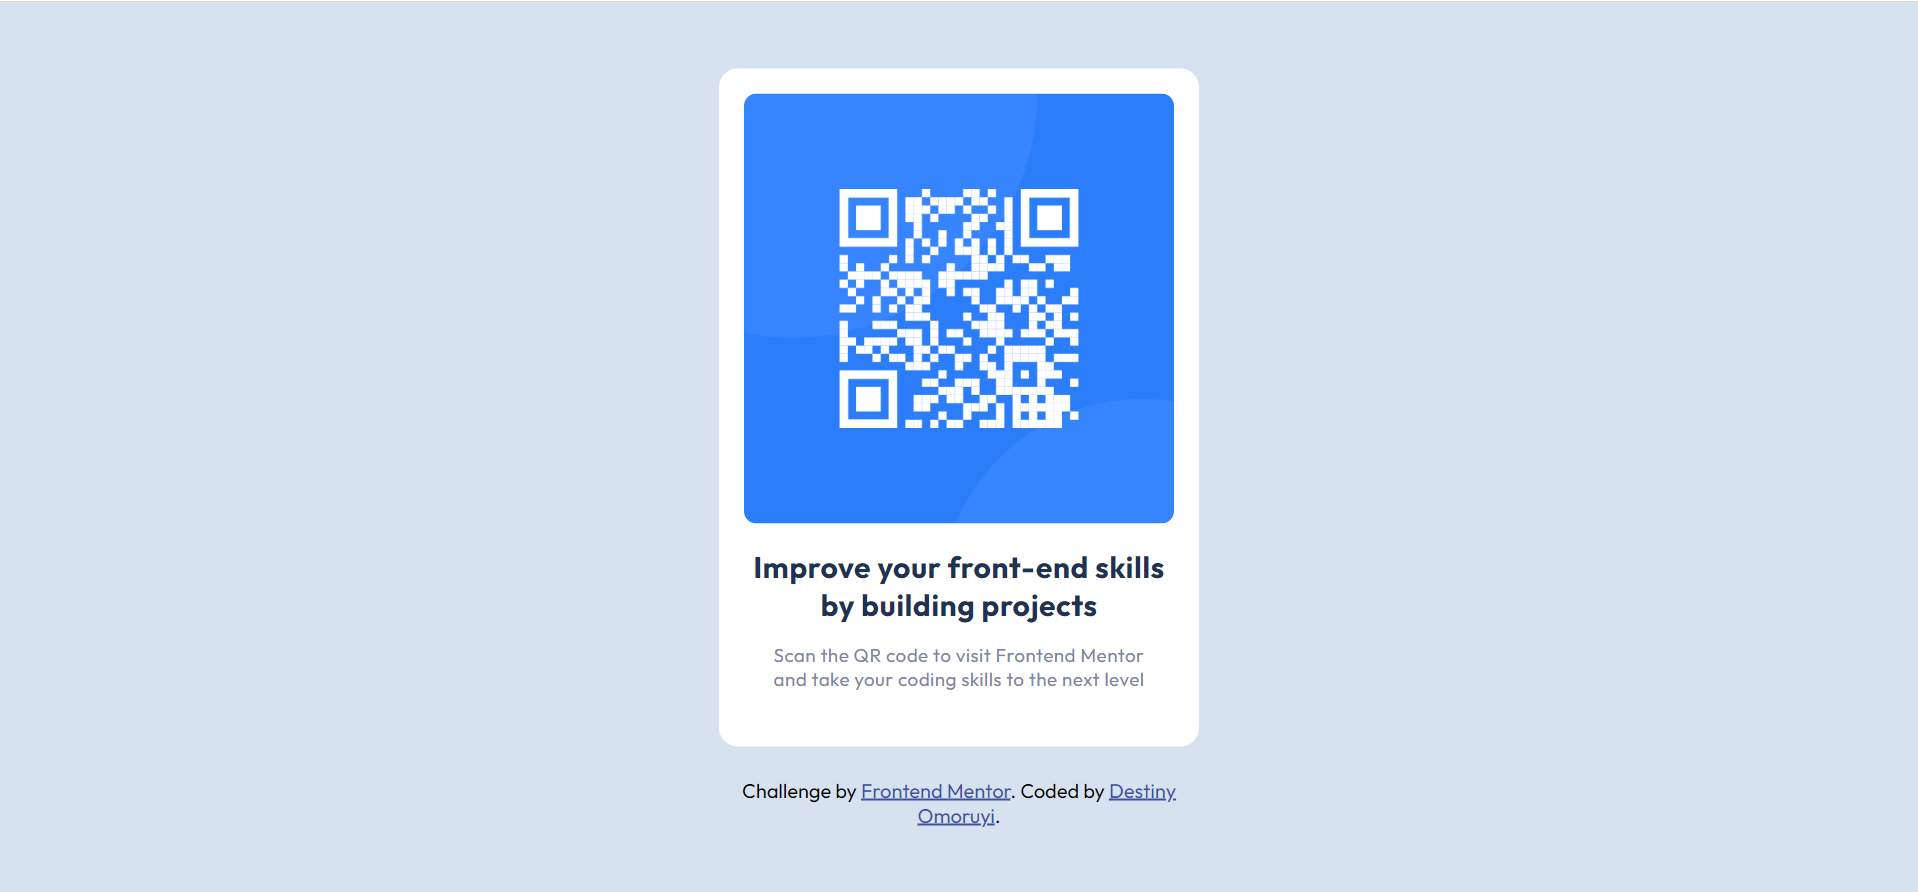
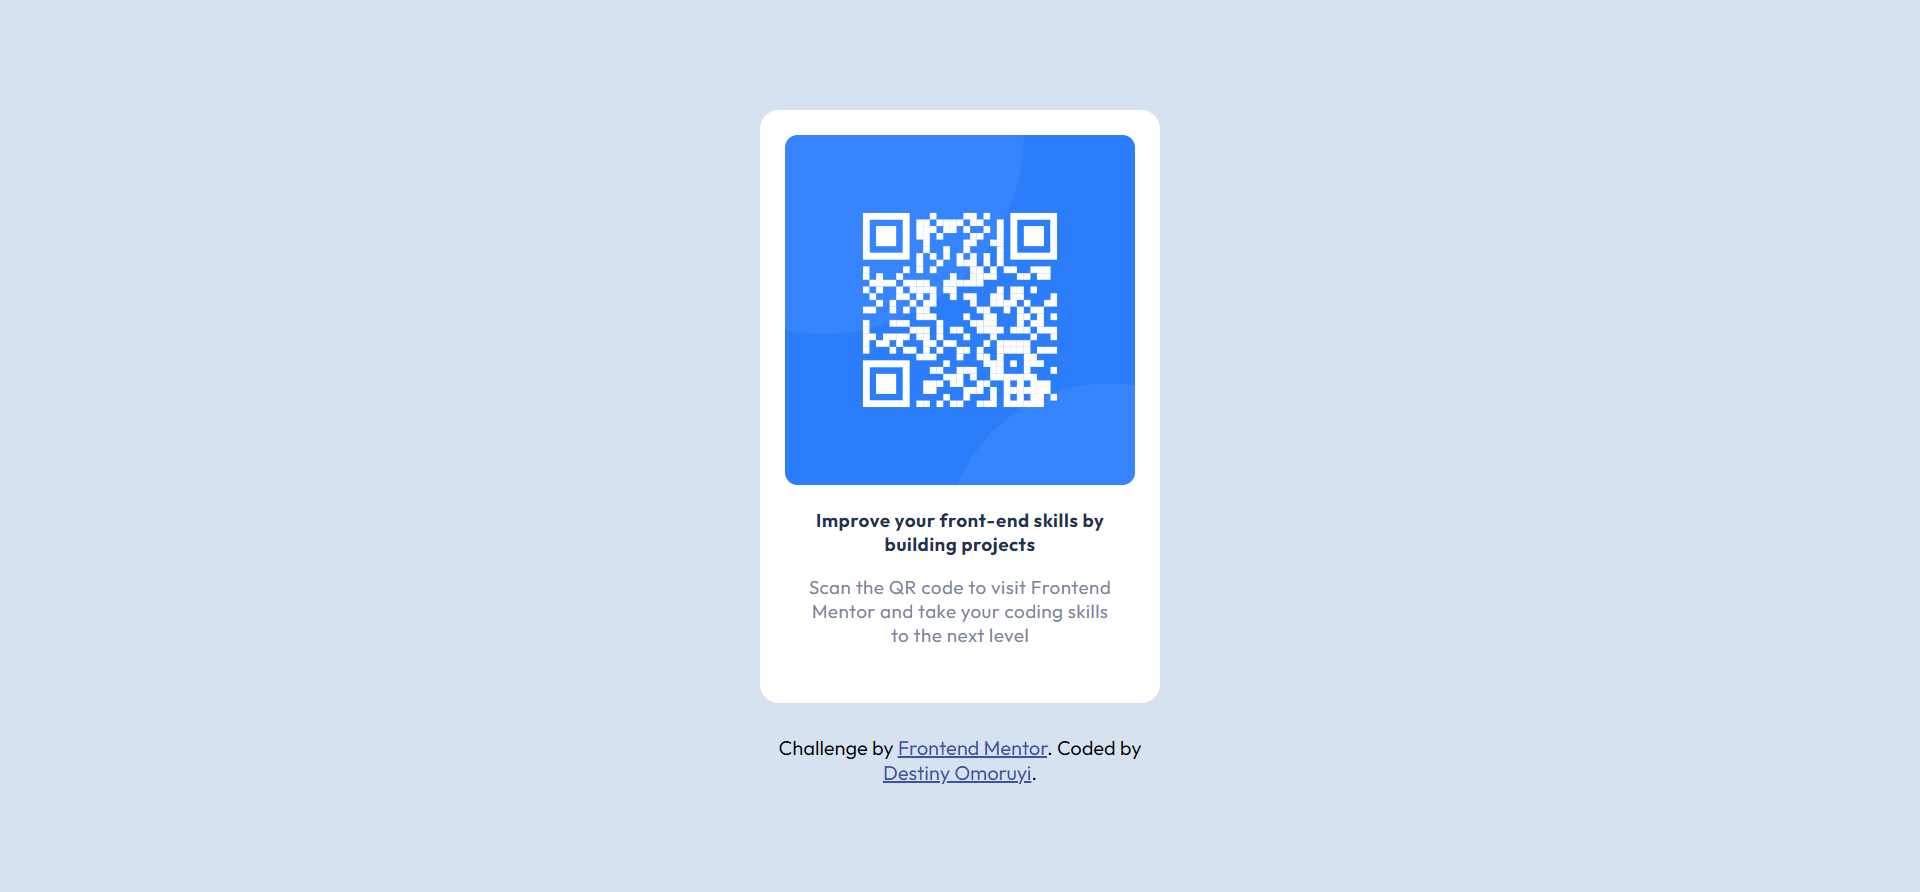
refactor css code with grid, took a new screenshot

Changed region(s): [[0.3691, 0.0605, 0.646, 0.9383]]

diff --git a/style.css b/style.css
@@ -6,24 +6,22 @@
 
 body{
     background-color: hsl(212, 45%, 89%);
+    min-height: 100vh;
+    display: grid;
+    place-items: center;
 }
 
 h1,p,a{
     font-family: 'Outfit', sans-serif;
 }
 
-main{
-    width: 600px;
-    transform: translate(-50%, -50%);
-    position: absolute;
-    top: 50%;
-    left: 50%;
+.main{
+    max-width: 320px;
 }
 
 .card_cover{
     background-color: hsl(0, 0%, 100%);
     width: 65%;
-    margin: auto;
     text-align: center;
     border-radius: 15px;
     padding:20px 20px 30px 20px;
@@ -37,6 +35,7 @@ main{
 .card_heading{
     width: 100%;
     color: hsl(218, 44%, 22%);
+    font-size: 15px;
     font-weight: 700;
     letter-spacing: 0.4px;
     margin: 15px auto;
@@ -61,10 +60,7 @@ main{
 }
 
 /* moble */
-@media only screen and (max-width: 415px) {
-    .main{
-        width: 90%;
-    }
+@media only screen and (max-width: 540px) {
 
     .card_cover{
         width: 100%;
@@ -80,11 +76,10 @@ main{
 /* large screens */
 
 @media only screen and (min-width: 768px) {
-    
-    .main{
-        width: 50%;
-        top: 35%;
-    }
+
+    /* .main{
+        min-width: 450px;
+    } */
 
     .card_cover{
         width: 100%;
@@ -92,21 +87,13 @@ main{
 
 }
 
-@media only screen and (min-width: 912px) {
-    
-    .main{
-        width: 35%;
-        top: 35%;
-    }
-
-}
 
 @media only screen and (min-width: 1024px) {
     
-        .main{
+        /* .main{
             width: 25%;
             top: 50%;
-        }
+        } */
 
         .card_para{
             padding: 0 15px;
